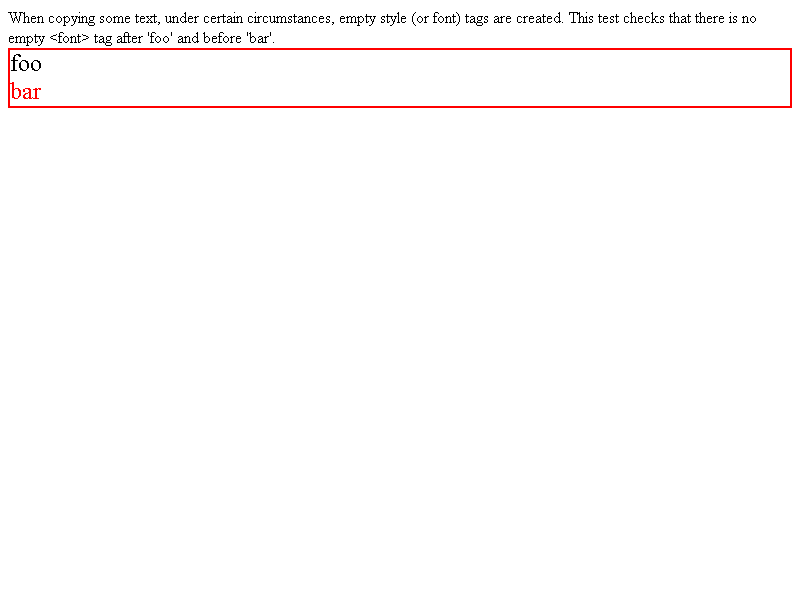
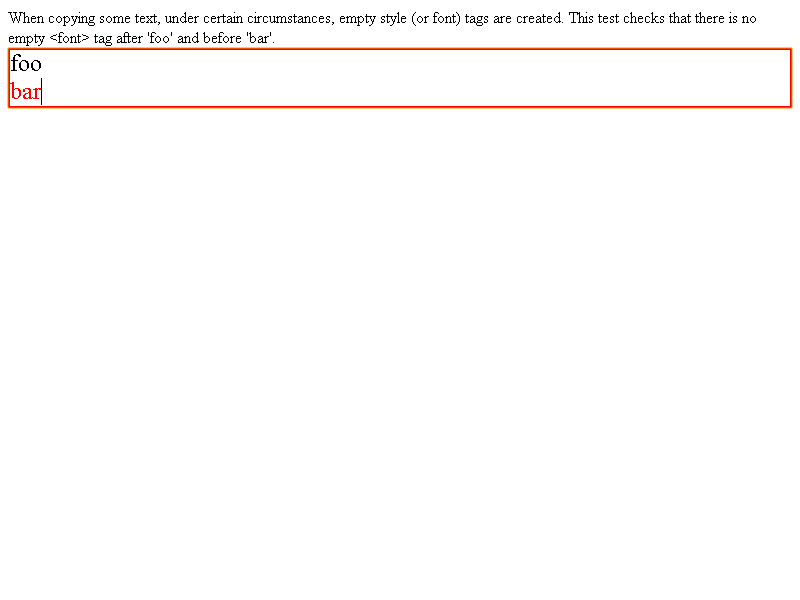
Another layout test fix. Technically, this is a test_shell tweak to avoid frame focus-related side effects when tests are run in a sequence. For more information, see http://b/issue?id=845337This change also restores the baseline of frame-click-focus-expected test to the original one by Apple WebKit
git-svn-id: http://src.chromium.org/svn/trunk/src@1497 4ff67af0-8c30-449e-8e8b-ad334ec8d88c

Changed region(s): [[0.0312, 0.06, 0.9688, 0.09], [0.9688, 0.15, 1.0, 0.18], [0.0, 0.15, 0.0312, 0.18]]

diff --git a/webkit/tools/test_shell/test_shell.cc b/webkit/tools/test_shell/test_shell.cc
@@ -871,6 +871,12 @@ bool TestShell::Navigate(const TestNavigationEntry& entry, bool reload) {
     // back/forward navigations maintain the target frame?
 
     frame->LoadRequest(request.get());
+    // Restore focus to the main frame prior to loading new request.
+    // This makes sure that we don't have a focused iframe. Otherwise, that
+    // iframe would keep focus when the SetFocus called immediately after
+    // LoadRequest, thus making some tests fail (see http://b/issue?id=845337
+    // for more details).
+    webView()->SetFocusedFrame(frame);
     SetFocus(webViewHost(), true);
 
     return true;
